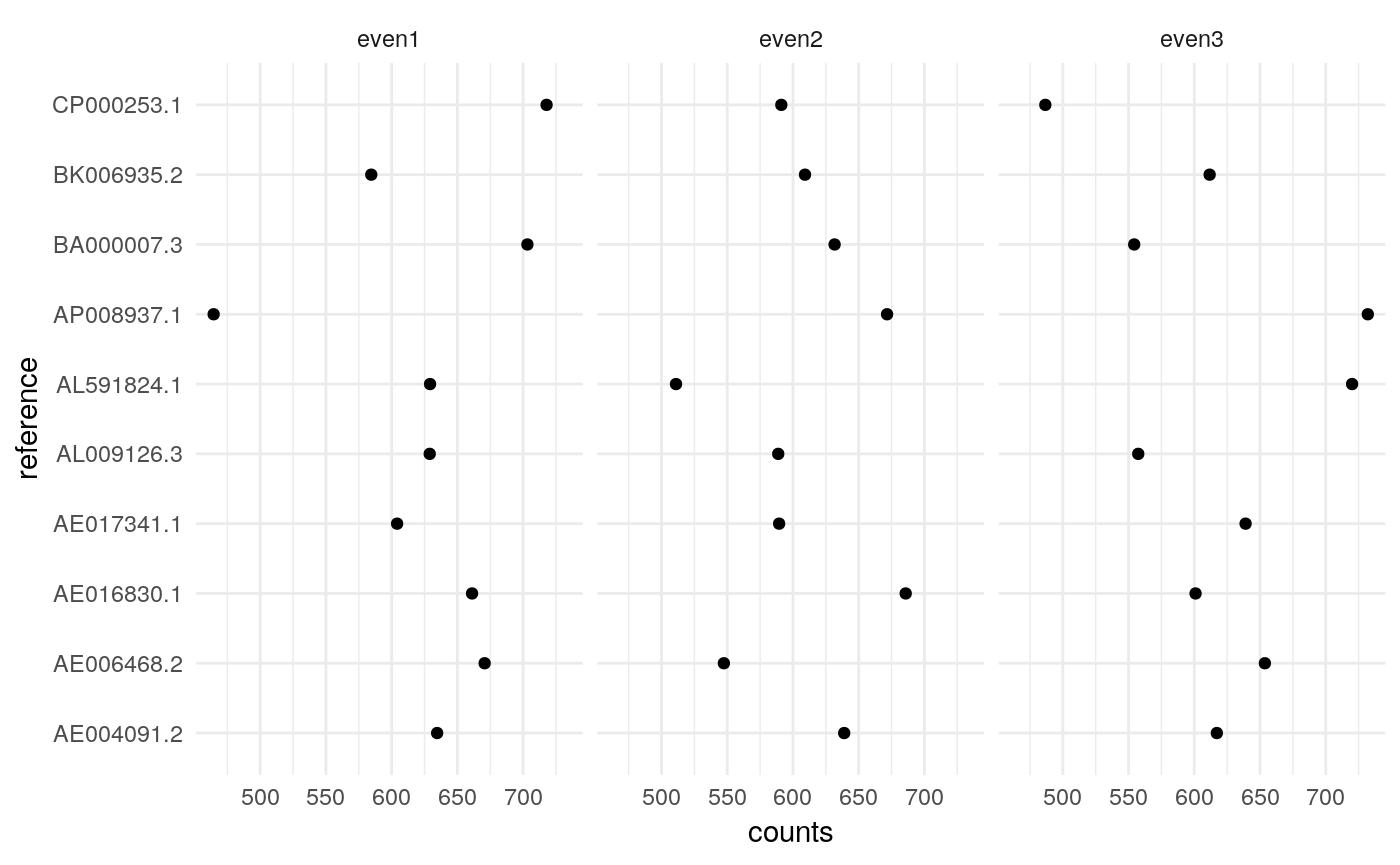
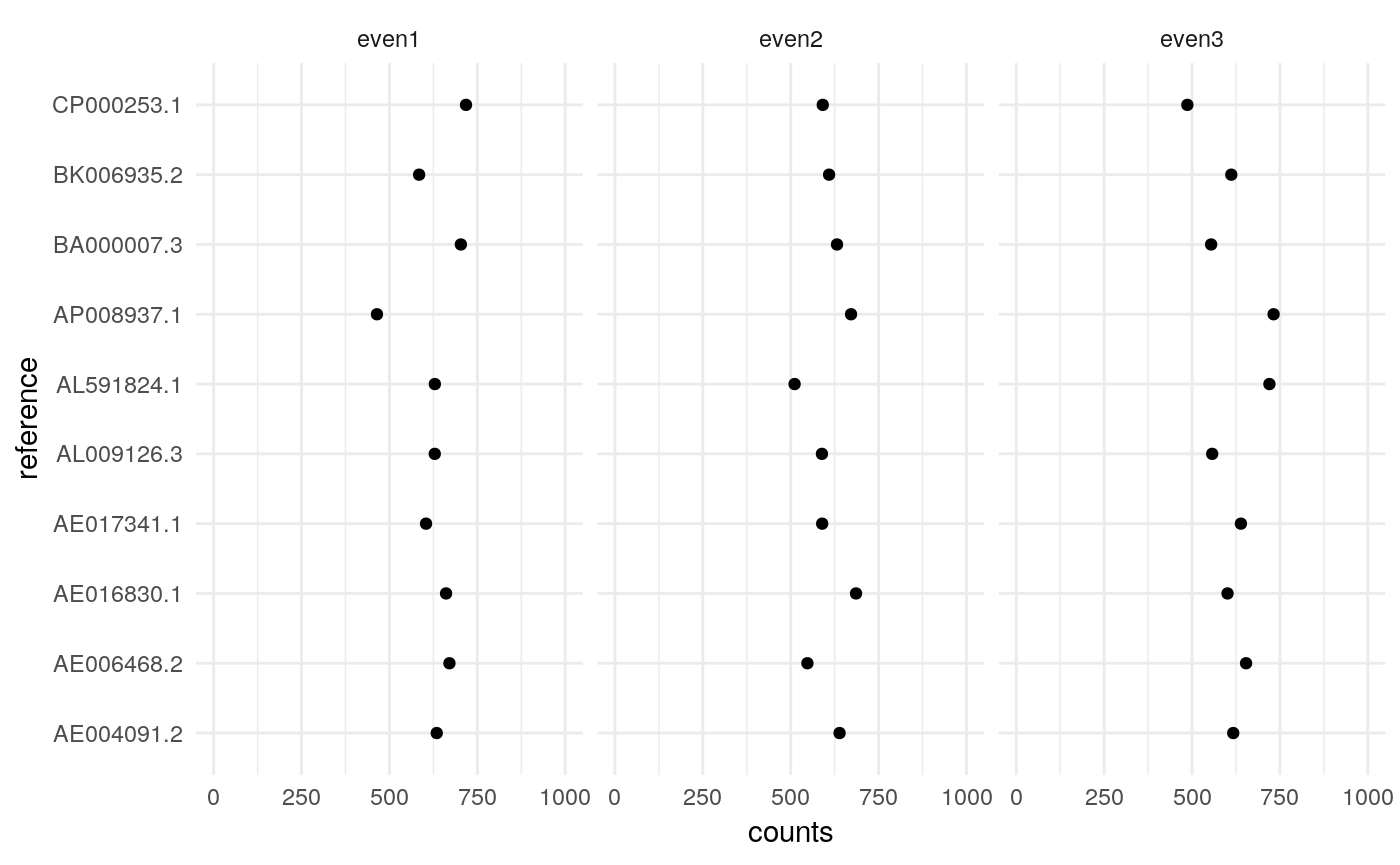
update counting docs

diff --git a/docs/articles/06_counting.html b/docs/articles/06_counting.html
@@ -140,9 +140,9 @@
 <h2 class="hasAnchor">
 <a href="#alignment" class="anchor"></a>Alignment</h2>
 <p>Let’s start by aligning our short read data to a reference database of 10 microbial genomes.</p>
-<div class="sourceCode" id="cb10"><pre class="sourceCode r"><code class="sourceCode r"><a class="sourceLine" id="cb10-1" title="1">fi &lt;-<span class="st"> </span><span class="kw"><a href="https://www.rdocumentation.org/packages/base/topics/system.file">system.file</a></span>(<span class="st">"extdata/shotgun"</span>, <span class="dt">package =</span> <span class="st">"mbtools"</span>) <span class="op">%&gt;%</span><span class="st"> </span></a>
+<div class="sourceCode" id="cb10"><pre class="sourceCode r"><code class="sourceCode r"><a class="sourceLine" id="cb10-1" title="1">fi &lt;-<span class="st"> </span><span class="kw"><a href="https://www.rdocumentation.org/packages/base/topics/system.file">system.file</a></span>(<span class="st">"extdata/shotgun"</span>, <span class="dt">package =</span> <span class="st">"mbtools"</span>) <span class="op">%&gt;%</span></a>
 <a class="sourceLine" id="cb10-2" title="2"><span class="st">      </span><span class="kw"><a href="../reference/find_read_files.html">find_read_files</a></span>()</a>
-<a class="sourceLine" id="cb10-3" title="3">ref &lt;-<span class="st"> </span><span class="kw"><a href="https://www.rdocumentation.org/packages/base/topics/system.file">system.file</a></span>(<span class="st">"extdata/genomes/zymo_mock.fna.gz"</span>, </a>
+<a class="sourceLine" id="cb10-3" title="3">ref &lt;-<span class="st"> </span><span class="kw"><a href="https://www.rdocumentation.org/packages/base/topics/system.file">system.file</a></span>(<span class="st">"extdata/genomes/zymo_mock.fna.gz"</span>,</a>
 <a class="sourceLine" id="cb10-4" title="4">                   <span class="dt">package =</span> <span class="st">"mbtools"</span>)</a>
 <a class="sourceLine" id="cb10-5" title="5"></a>
 <a class="sourceLine" id="cb10-6" title="6">alns &lt;-<span class="st"> </span><span class="kw"><a href="../reference/align_short_reads.html">align_short_reads</a></span>(</a>
@@ -150,17 +150,17 @@
 <a class="sourceLine" id="cb10-8" title="8">    <span class="dt">threads =</span> <span class="dv">3</span>,</a>
 <a class="sourceLine" id="cb10-9" title="9">    <span class="dt">reference =</span> ref,</a>
 <a class="sourceLine" id="cb10-10" title="10">    <span class="dt">use_existing =</span> <span class="ot">FALSE</span>)</a></code></pre></div>
-<pre><code>## INFO [2019-05-25 22:28:23] Aligning 3 samples on 3 threads. Keeping up to 100 secondary alignments.
-## INFO [2019-05-25 22:28:25] Finished aligning even1.
-## INFO [2019-05-25 22:28:27] Finished aligning even2.
-## INFO [2019-05-25 22:28:30] Finished aligning even3.</code></pre>
+<pre><code>## INFO [2019-05-25 22:31:01] Aligning 3 samples on 3 threads. Keeping up to 100 secondary alignments.
+## INFO [2019-05-25 22:31:03] Finished aligning even1.
+## INFO [2019-05-25 22:31:05] Finished aligning even2.
+## INFO [2019-05-25 22:31:07] Finished aligning even3.</code></pre>
 </div>
 <div id="em-counting" class="section level2">
 <h2 class="hasAnchor">
 <a href="#em-counting" class="anchor"></a>EM counting</h2>
 <p>Counting is yet again a workflow and requires an alignment artifact and a configuration.</p>
 <div class="sourceCode" id="cb12"><pre class="sourceCode r"><code class="sourceCode r"><a class="sourceLine" id="cb12-1" title="1">config &lt;-<span class="st"> </span><span class="kw"><a href="../reference/config_count.html">config_count</a></span>(</a>
-<a class="sourceLine" id="cb12-2" title="2">    <span class="dt">reference =</span> <span class="kw"><a href="https://www.rdocumentation.org/packages/base/topics/system.file">system.file</a></span>(<span class="st">"extdata/genomes/zymo_mock.fna.gz"</span>, </a>
+<a class="sourceLine" id="cb12-2" title="2">    <span class="dt">reference =</span> <span class="kw"><a href="https://www.rdocumentation.org/packages/base/topics/system.file">system.file</a></span>(<span class="st">"extdata/genomes/zymo_mock.fna.gz"</span>,</a>
 <a class="sourceLine" id="cb12-3" title="3">                            <span class="dt">package =</span> <span class="st">"mbtools"</span>),</a>
 <a class="sourceLine" id="cb12-4" title="4">    <span class="dt">threads =</span> <span class="dv">1</span>,</a>
 <a class="sourceLine" id="cb12-5" title="5">    <span class="dt">weights =</span> <span class="ot">TRUE</span></a>
@@ -192,17 +192,17 @@
 ## [1] "config"</code></pre>
 <p>And we can proceed to counting:</p>
 <div class="sourceCode" id="cb14"><pre class="sourceCode r"><code class="sourceCode r"><a class="sourceLine" id="cb14-1" title="1">cn &lt;-<span class="st"> </span><span class="kw"><a href="../reference/count_references.html">count_references</a></span>(alns, config)</a></code></pre></div>
-<pre><code>## INFO [2019-05-25 22:28:30] Getting reference lengths from /home/cdiener/R/x86_64-pc-linux-gnu-library/3.6/mbtools/extdata/genomes/zymo_mock.fna.gz...
-## INFO [2019-05-25 22:28:31] Normalized IDs. Starting counting...
-## INFO [2019-05-25 22:28:31] [alignments/even1.bam] Read 16941 alignments.
-## INFO [2019-05-25 22:28:31] [alignments/even1.bam] 10 reference seqs. Confidence interval for effective lengths: [2261189.10, 17482265.90].
-## INFO [2019-05-25 22:28:31] [alignments/even1.bam] Used 20 EM iterations on 16 equivalence classes. Last max. abs. change was 0.
-## INFO [2019-05-25 22:28:31] [alignments/even2.bam] Read 16804 alignments.
-## INFO [2019-05-25 22:28:31] [alignments/even2.bam] 10 reference seqs. Confidence interval for effective lengths: [2261189.10, 17482265.90].
-## INFO [2019-05-25 22:28:31] [alignments/even2.bam] Used 20 EM iterations on 12 equivalence classes. Last max. abs. change was 1.1e-13.
-## INFO [2019-05-25 22:28:31] [alignments/even3.bam] Read 17518 alignments.
-## INFO [2019-05-25 22:28:31] [alignments/even3.bam] 10 reference seqs. Confidence interval for effective lengths: [2261189.10, 17482265.90].
-## INFO [2019-05-25 22:28:31] [alignments/even3.bam] Used 20 EM iterations on 20 equivalence classes. Last max. abs. change was 0.</code></pre>
+<pre><code>## INFO [2019-05-25 22:31:08] Getting reference lengths from /home/cdiener/R/x86_64-pc-linux-gnu-library/3.6/mbtools/extdata/genomes/zymo_mock.fna.gz...
+## INFO [2019-05-25 22:31:08] Normalized IDs. Starting counting...
+## INFO [2019-05-25 22:31:09] [alignments/even1.bam] Read 16941 alignments.
+## INFO [2019-05-25 22:31:09] [alignments/even1.bam] 10 reference seqs. Confidence interval for effective lengths: [2261189.10, 17482265.90].
+## INFO [2019-05-25 22:31:09] [alignments/even1.bam] Used 20 EM iterations on 16 equivalence classes. Last max. abs. change was 0.
+## INFO [2019-05-25 22:31:09] [alignments/even2.bam] Read 16804 alignments.
+## INFO [2019-05-25 22:31:09] [alignments/even2.bam] 10 reference seqs. Confidence interval for effective lengths: [2261189.10, 17482265.90].
+## INFO [2019-05-25 22:31:09] [alignments/even2.bam] Used 20 EM iterations on 12 equivalence classes. Last max. abs. change was 1.1e-13.
+## INFO [2019-05-25 22:31:09] [alignments/even3.bam] Read 17518 alignments.
+## INFO [2019-05-25 22:31:09] [alignments/even3.bam] 10 reference seqs. Confidence interval for effective lengths: [2261189.10, 17482265.90].
+## INFO [2019-05-25 22:31:10] [alignments/even3.bam] Used 20 EM iterations on 20 equivalence classes. Last max. abs. change was 0.</code></pre>
 <p>This creates a count artifact which contains the counts.</p>
 <div class="sourceCode" id="cb16"><pre class="sourceCode r"><code class="sourceCode r"><a class="sourceLine" id="cb16-1" title="1">cn<span class="op">$</span>counts</a></code></pre></div>
 <pre><code>##      reference   counts effective_length sample
@@ -237,29 +237,31 @@
 ## 29: BK006935.2 611.6976         12072428  even3
 ## 30: CP000253.1 486.6862          2821263  even3
 ##      reference   counts effective_length sample</code></pre>
-<p>In each sample we have 8 microbes with an abundance of 12% and 2 with an abundance of 2%. We can look at the data to confirm that:</p>
-<div class="sourceCode" id="cb18"><pre class="sourceCode r"><code class="sourceCode r"><a class="sourceLine" id="cb18-1" title="1"><span class="kw">ggplot</span>(cn<span class="op">$</span>counts, <span class="kw">aes</span>(<span class="dt">x=</span>counts, <span class="dt">y=</span>reference)) <span class="op">+</span><span class="st"> </span></a>
-<a class="sourceLine" id="cb18-2" title="2"><span class="st">    </span><span class="kw">geom_point</span>() <span class="op">+</span></a>
+<p>In each sample we have 10 microbes with the same abundance.</p>
+<div class="sourceCode" id="cb18"><pre class="sourceCode r"><code class="sourceCode r"><a class="sourceLine" id="cb18-1" title="1"><span class="kw">ggplot</span>(cn<span class="op">$</span>counts, <span class="kw">aes</span>(<span class="dt">x=</span>counts, <span class="dt">y=</span>reference)) <span class="op">+</span></a>
+<a class="sourceLine" id="cb18-2" title="2"><span class="st">    </span><span class="kw">geom_point</span>() <span class="op">+</span><span class="st"> </span><span class="kw"><a href="https://www.rdocumentation.org/packages/graphics/topics/plot.window">xlim</a></span>(<span class="dv">0</span>, <span class="dv">1000</span>) <span class="op">+</span></a>
 <a class="sourceLine" id="cb18-3" title="3"><span class="st">    </span><span class="kw">facet_wrap</span>(<span class="op">~</span><span class="st"> </span>sample) <span class="op">+</span><span class="st"> </span><span class="kw">theme_minimal</span>()</a></code></pre></div>
 <p><img src="06_counting_files/figure-html/unnamed-chunk-6-1.png" width="700"></p>
 <p>Looks ok, but there is a lot of noise since we have very low depth.</p>
-<p>We could also compare that with a naive counting method that just uses the best alignment score. In our case that will perform equally since we have little multi-mapping here.</p>
-<div class="sourceCode" id="cb19"><pre class="sourceCode r"><code class="sourceCode r"><a class="sourceLine" id="cb19-1" title="1">config<span class="op">$</span>method &lt;-<span class="st"> "naive"</span></a>
-<a class="sourceLine" id="cb19-2" title="2">cn2 &lt;-<span class="st"> </span><span class="kw"><a href="../reference/count_references.html">count_references</a></span>(alns, config)</a></code></pre></div>
-<pre><code>## INFO [2019-05-25 22:28:32] Getting reference lengths from /home/cdiener/R/x86_64-pc-linux-gnu-library/3.6/mbtools/extdata/genomes/zymo_mock.fna.gz...
-## INFO [2019-05-25 22:28:32] Normalized IDs. Starting counting...
-## INFO [2019-05-25 22:28:32] [alignments/even1.bam] Read 16941 alignments.
-## INFO [2019-05-25 22:28:32] [alignments/even1.bam] 10 reference seqs. Confidence interval for effective lengths: [2261189.10, 17482265.90].
-## INFO [2019-05-25 22:28:32] [alignments/even2.bam] Read 16804 alignments.
-## INFO [2019-05-25 22:28:32] [alignments/even2.bam] 10 reference seqs. Confidence interval for effective lengths: [2261189.10, 17482265.90].
-## INFO [2019-05-25 22:28:32] [alignments/even3.bam] Read 17518 alignments.
-## INFO [2019-05-25 22:28:32] [alignments/even3.bam] 10 reference seqs. Confidence interval for effective lengths: [2261189.10, 17482265.90].</code></pre>
-<div class="sourceCode" id="cb21"><pre class="sourceCode r"><code class="sourceCode r"><a class="sourceLine" id="cb21-1" title="1">counts &lt;-<span class="st"> </span>cn<span class="op">$</span>counts[cn2<span class="op">$</span>counts, on =<span class="st"> </span><span class="kw"><a href="https://www.rdocumentation.org/packages/base/topics/c">c</a></span>(<span class="st">"sample"</span>, <span class="st">"reference"</span>, <span class="st">"effective_length"</span>)]</a>
-<a class="sourceLine" id="cb21-2" title="2"></a>
-<a class="sourceLine" id="cb21-3" title="3"><span class="kw">ggplot</span>(counts, <span class="kw">aes</span>(<span class="dt">x =</span> counts, <span class="dt">y =</span> i.counts)) <span class="op">+</span><span class="st"> </span></a>
-<a class="sourceLine" id="cb21-4" title="4"><span class="st">    </span><span class="kw">geom_point</span>() <span class="op">+</span><span class="st"> </span><span class="kw">geom_smooth</span>(<span class="dt">method =</span> <span class="st">"lm"</span>) <span class="op">+</span></a>
-<a class="sourceLine" id="cb21-5" title="5"><span class="st">    </span><span class="kw">labs</span>(<span class="dt">x =</span> <span class="st">"em"</span>, <span class="dt">y =</span> <span class="st">"naive"</span>) <span class="op">+</span><span class="st"> </span><span class="kw">theme_classic</span>()</a></code></pre></div>
+<div class="sourceCode" id="cb19"><pre class="sourceCode r"><code class="sourceCode r"><a class="sourceLine" id="cb19-1" title="1"><span class="kw">ggplot</span>(cn<span class="op">$</span>counts, <span class="kw">aes</span>(<span class="dt">x =</span> counts)) <span class="op">+</span><span class="st"> </span><span class="kw">geom_histogram</span>(<span class="dt">bins =</span> <span class="dv">8</span>)</a></code></pre></div>
 <p><img src="06_counting_files/figure-html/unnamed-chunk-7-1.png" width="700"></p>
+<p>We could also compare that with a naive counting method that just uses the best alignment score. In our case that will perform equally since we have little multi-mapping here.</p>
+<div class="sourceCode" id="cb20"><pre class="sourceCode r"><code class="sourceCode r"><a class="sourceLine" id="cb20-1" title="1">config<span class="op">$</span>method &lt;-<span class="st"> "naive"</span></a>
+<a class="sourceLine" id="cb20-2" title="2">cn2 &lt;-<span class="st"> </span><span class="kw"><a href="../reference/count_references.html">count_references</a></span>(alns, config)</a></code></pre></div>
+<pre><code>## INFO [2019-05-25 22:31:10] Getting reference lengths from /home/cdiener/R/x86_64-pc-linux-gnu-library/3.6/mbtools/extdata/genomes/zymo_mock.fna.gz...
+## INFO [2019-05-25 22:31:10] Normalized IDs. Starting counting...
+## INFO [2019-05-25 22:31:11] [alignments/even1.bam] Read 16941 alignments.
+## INFO [2019-05-25 22:31:11] [alignments/even1.bam] 10 reference seqs. Confidence interval for effective lengths: [2261189.10, 17482265.90].
+## INFO [2019-05-25 22:31:11] [alignments/even2.bam] Read 16804 alignments.
+## INFO [2019-05-25 22:31:11] [alignments/even2.bam] 10 reference seqs. Confidence interval for effective lengths: [2261189.10, 17482265.90].
+## INFO [2019-05-25 22:31:11] [alignments/even3.bam] Read 17518 alignments.
+## INFO [2019-05-25 22:31:11] [alignments/even3.bam] 10 reference seqs. Confidence interval for effective lengths: [2261189.10, 17482265.90].</code></pre>
+<div class="sourceCode" id="cb22"><pre class="sourceCode r"><code class="sourceCode r"><a class="sourceLine" id="cb22-1" title="1">counts &lt;-<span class="st"> </span>cn<span class="op">$</span>counts[cn2<span class="op">$</span>counts, on =<span class="st"> </span><span class="kw"><a href="https://www.rdocumentation.org/packages/base/topics/c">c</a></span>(<span class="st">"sample"</span>, <span class="st">"reference"</span>, <span class="st">"effective_length"</span>)]</a>
+<a class="sourceLine" id="cb22-2" title="2"></a>
+<a class="sourceLine" id="cb22-3" title="3"><span class="kw">ggplot</span>(counts, <span class="kw">aes</span>(<span class="dt">x =</span> counts, <span class="dt">y =</span> i.counts)) <span class="op">+</span></a>
+<a class="sourceLine" id="cb22-4" title="4"><span class="st">    </span><span class="kw">geom_point</span>() <span class="op">+</span><span class="st"> </span><span class="kw">geom_smooth</span>(<span class="dt">method =</span> <span class="st">"lm"</span>) <span class="op">+</span></a>
+<a class="sourceLine" id="cb22-5" title="5"><span class="st">    </span><span class="kw">labs</span>(<span class="dt">x =</span> <span class="st">"em"</span>, <span class="dt">y =</span> <span class="st">"naive"</span>) <span class="op">+</span><span class="st"> </span><span class="kw">theme_classic</span>()</a></code></pre></div>
+<p><img src="06_counting_files/figure-html/unnamed-chunk-8-1.png" width="700"></p>
 <p>As we see they both give the same results for that simple case.</p>
 </div>
 </div>
